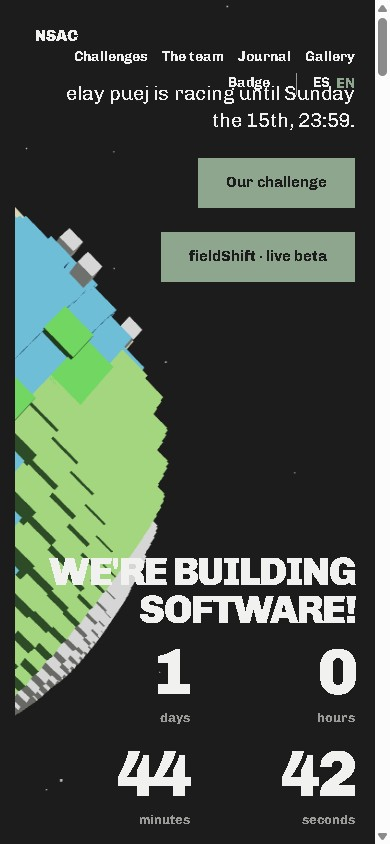
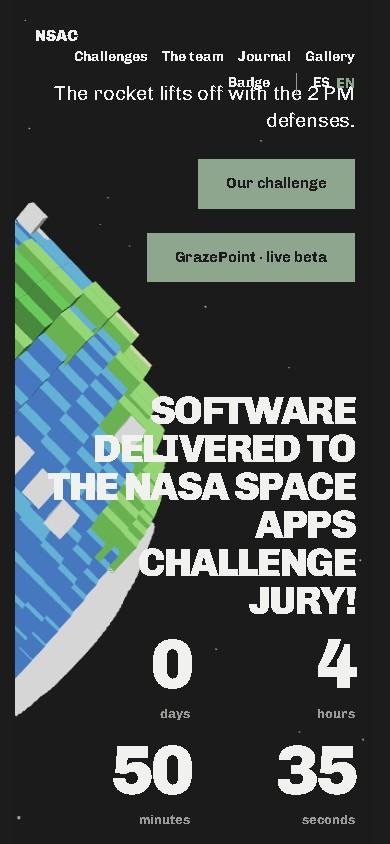
hero: software entregado, cuenta al despegue del cohete
La fase dev (T0 a TSUB) anuncia la entrega al jurado y la cuenta ya no
corre a la entrega del mediodia sino al despegue (TDEF 14:00): la nave
se va con las defensas. Descripciones OG/Twitter al dia y og-cover
regenerada.

Generated with [Devin](https://devin.ai)

diff --git a/es/index.html b/es/index.html
@@ -4,7 +4,7 @@
 <meta charset="utf-8">
 <meta name="viewport" content="width=device-width, initial-scale=1.0">
 <title>elay puej — NASA Space Apps Challenge 2026 | Alejandro Sosa</title>
-<meta name="description" content="Participamos en el NASA Space Apps Challenge 2026 desde Santa Cruz de la Sierra con el equipo elay puej y el reto GrazePoint. Nuestra app GrazePoint ya corre en beta de producción; la entrega cierra el domingo 15 al mediodía, las defensas empiezan a las 14:00 y todo termina a las 20:00, hora de Bolivia. Cuenta regresiva en vivo y diario del evento.">
+<meta name="description" content="Participamos en el NASA Space Apps Challenge 2026 desde Santa Cruz de la Sierra con el equipo elay puej y el reto GrazePoint. Nuestra app GrazePoint corre en beta de producción y el software ya está entregado al jurado; las defensas empiezan a las 14:00 y todo termina a las 20:00, hora de Bolivia. Cuenta regresiva en vivo y diario del evento.">
 <meta name="author" content="Alejandro Sosa Briceño">
 <meta name="robots" content="index, follow, max-image-preview:large">
 <link rel="canonical" href="https://asosab.github.io/NSAC/es/">
@@ -17,7 +17,7 @@
 <meta property="og:type" content="website">
 <meta property="og:site_name" content="NSAC — NASA Space Apps 2026">
 <meta property="og:title" content="elay puej — NASA Space Apps Challenge 2026">
-<meta property="og:description" content="Nuestra app GrazePoint ya corre en beta de producción. El hackathon más grande del mundo está en curso: la entrega cierra el domingo 15 al mediodía, las defensas empiezan a las 14:00 y todo termina a las 20:00, hora de Bolivia. Equipo elay puej, cuenta regresiva en vivo y diario del evento.">
+<meta property="og:description" content="Nuestra app GrazePoint corre en beta de producción y el software ya está entregado al jurado. Las defensas empiezan a las 14:00 y todo termina a las 20:00, hora de Bolivia. Equipo elay puej, cuenta regresiva en vivo y diario del evento.">
 <meta property="og:url" content="https://asosab.github.io/NSAC/es/">
 <meta property="og:image" content="https://asosab.github.io/NSAC/assets/img/og-cover.jpg">
 <meta property="og:image:width" content="390">
@@ -31,7 +31,7 @@
 <meta name="twitter:site" content="@asosab">
 <meta name="twitter:creator" content="@asosab">
 <meta name="twitter:title" content="elay puej — NASA Space Apps Challenge 2026">
-<meta name="twitter:description" content="Nuestra app GrazePoint corre en beta de producción. El hackathon está en curso: la entrega cierra el domingo 15 al mediodía, defensas desde las 14:00, cierre a las 20:00 hora de Bolivia. Equipo elay puej, cuenta regresiva en vivo y diario del evento.">
+<meta name="twitter:description" content="Nuestra app GrazePoint corre en beta de producción y el software está entregado al jurado. Defensas desde las 14:00, cierre a las 20:00 hora de Bolivia. Equipo elay puej, cuenta regresiva en vivo y diario del evento.">
 <meta name="twitter:image" content="https://asosab.github.io/NSAC/assets/img/og-cover.jpg">
 <meta name="twitter:image:alt" content="Planeta Tierra de bloques estilo Minecraft a la izquierda y cuenta regresiva gigante a la derecha.">
 

diff --git a/index.html b/index.html
@@ -4,7 +4,7 @@
 <meta charset="utf-8">
 <meta name="viewport" content="width=device-width, initial-scale=1.0">
 <title>elay puej — NASA Space Apps Challenge 2026 | Alejandro Sosa</title>
-<meta name="description" content="We're competing in the NASA Space Apps Challenge 2026 from Santa Cruz de la Sierra as team elay puej, on the GrazePoint challenge. Our app GrazePoint already runs in production beta; submissions close at noon on Sunday, November 15, defenses run from 2 PM and everything wraps up at 8 PM Bolivia time. Live countdown and event journal.">
+<meta name="description" content="We're competing in the NASA Space Apps Challenge 2026 from Santa Cruz de la Sierra as team elay puej, on the GrazePoint challenge. Our app GrazePoint runs in production beta and the software is already delivered to the jury; defenses run from 2 PM and everything wraps up at 8 PM Bolivia time. Live countdown to the rocket launch and event journal.">
 <meta name="author" content="Alejandro Sosa Briceño">
 <meta name="robots" content="index, follow, max-image-preview:large">
 <link rel="canonical" href="https://asosab.github.io/NSAC/">
@@ -17,7 +17,7 @@
 <meta property="og:type" content="website">
 <meta property="og:site_name" content="NSAC — NASA Space Apps 2026">
 <meta property="og:title" content="elay puej — NASA Space Apps Challenge 2026">
-<meta property="og:description" content="Our app GrazePoint already runs in production beta. The world's biggest hackathon is live: submissions close at noon on Sunday the 15th, defenses run from 2 PM and everything wraps up at 8 PM Bolivia time. Team elay puej, live countdown and event journal.">
+<meta property="og:description" content="Our app GrazePoint runs in production beta and the software is already delivered to the jury. Defenses run from 2 PM and everything wraps up at 8 PM Bolivia time. Team elay puej, live countdown to the rocket launch and event journal.">
 <meta property="og:url" content="https://asosab.github.io/NSAC/">
 <meta property="og:image" content="https://asosab.github.io/NSAC/assets/img/og-cover.jpg">
 <meta property="og:image:width" content="390">
@@ -31,7 +31,7 @@
 <meta name="twitter:site" content="@asosab">
 <meta name="twitter:creator" content="@asosab">
 <meta name="twitter:title" content="elay puej — NASA Space Apps Challenge 2026">
-<meta name="twitter:description" content="Our app GrazePoint runs in production beta. The hackathon is live: submissions close at noon on Sunday the 15th, defenses from 2 PM, all done by 8 PM Bolivia time. Team elay puej, live countdown and event journal.">
+<meta name="twitter:description" content="Our app GrazePoint runs in production beta and the software is delivered to the jury. Defenses from 2 PM, all done by 8 PM Bolivia time. Team elay puej, live countdown to the rocket launch and event journal.">
 <meta name="twitter:image" content="https://asosab.github.io/NSAC/assets/img/og-cover.jpg">
 <meta name="twitter:image:alt" content="Minecraft-style voxel planet Earth on the left and a giant countdown on the right.">
 

diff --git a/assets/js/planet.js b/assets/js/planet.js
@@ -19,8 +19,8 @@
   /* textos por idioma de la página (<html lang>) */
   var TXT = {
     es: {
-      devMsg: "¡Estamos desarrollando software!",
-      devClaim: "elay puej corre hasta el domingo 15 al mediodía, cuando cierra la entrega.",
+      devMsg: "¡Software entregado al jurado de la NASA Space Apps Challenge!",
+      devClaim: "El cohete despega con las defensas de las 14:00.",
       subMsg: "Proyecto entregado.",
       subClaim: "Las defensas empiezan a las 14:00.",
       defMsg: "¡Estamos presentando GrazePoint!",
@@ -30,8 +30,8 @@
       doneClaim: "GrazePoint se desarrolló en 12 horas durante la NASA Space Apps Challenge 2026."
     },
     en: {
-      devMsg: "We're building software!",
-      devClaim: "elay puej is racing until Sunday the 15th at noon, when submissions close.",
+      devMsg: "Software delivered to the NASA Space Apps Challenge jury!",
+      devClaim: "The rocket lifts off with the 2 PM defenses.",
       subMsg: "Project submitted.",
       subClaim: "Defenses start at 2 PM.",
       defMsg: "We're presenting GrazePoint!",
@@ -112,7 +112,7 @@
   function tick() {
     var now = new Date(), target;
     if (now < T0) { estado = "pre"; target = T0; }
-    else if (now < TSUB) { estado = "dev"; target = TSUB; }
+    else if (now < TSUB) { estado = "dev"; target = TDEF; }
     else if (now < TDEF) { estado = "sub"; target = TDEF; }
     else if (now < T1) { estado = "def"; target = T1; }
     else if (now < TEND) { estado = "bye"; target = T1; }

diff --git a/docs/log/2026-11-15.md b/docs/log/2026-11-15.md
@@ -1,0 +1,19 @@
+# Log 2026-11-15
+
+## Hero: software entregado + cuenta al despegue
+
+- `assets/js/planet.js`: en la fase `dev` (T0 → TSUB) el claim cambió a
+  «¡Software entregado al jurado de la NASA Space Apps Challenge!»
+  (en: «Software delivered to the NASA Space Apps Challenge jury!»).
+- La cuenta regresiva de `dev` ya no apunta a TSUB sino a TDEF (14:00):
+  es la cuenta del despegue del cohete, que se va con las defensas.
+  Los estados `sub`/`def`/`bye`/`done` quedaron igual.
+- `devClaim` nuevo: «El cohete despega con las defensas de las 14:00.»
+- Descripciones `description`/`og`/`twitter` (EN raíz y `es/`) al día:
+  «software already delivered to the jury», countdown al lanzamiento.
+- `assets/img/og-cover.jpg` regenerada (390×844, planeta + claim nuevo +
+  cuenta a ~5 h del despegue). `imagen/nsac.jpg` de asosab.github.io no
+  está en este clone: regenerar allá si hace falta.
+- Nota: al parar el servidor de capturas (`python -m http.server` para la
+  OG) se mató también otro `python.exe` que servía en :8399; reiniciar si
+  era algo del usuario.

diff --git a/AGENTS.md b/AGENTS.md
@@ -19,8 +19,9 @@ En `assets/js/planet.js`:
 
 - `LAUNCH` → `T0` (14 nov, 09:00 local): el cohete desciende hacia Sudamérica
   en proporción al tiempo restante; aterriza cuando la cuenta llega a cero.
-- `T0` → `TSUB` (15 nov, 12:00): «¡Estamos desarrollando software!» y la
-  cuenta apunta al cierre de la entrega del mediodía.
+- `T0` → `TSUB` (15 nov, 12:00): «¡Software entregado al jurado de la
+  NASA Space Apps Challenge!» y la cuenta apunta al despegue del cohete
+  (TDEF, 14:00: la nave se va con las defensas).
 - `TSUB` → `TDEF` (15 nov, 14:00): «Proyecto entregado.» y la cuenta apunta
   al inicio de las defensas.
 - `TDEF` → `T1` (15 nov, 20:00): «¡Estamos presentando GrazePoint!» y la
